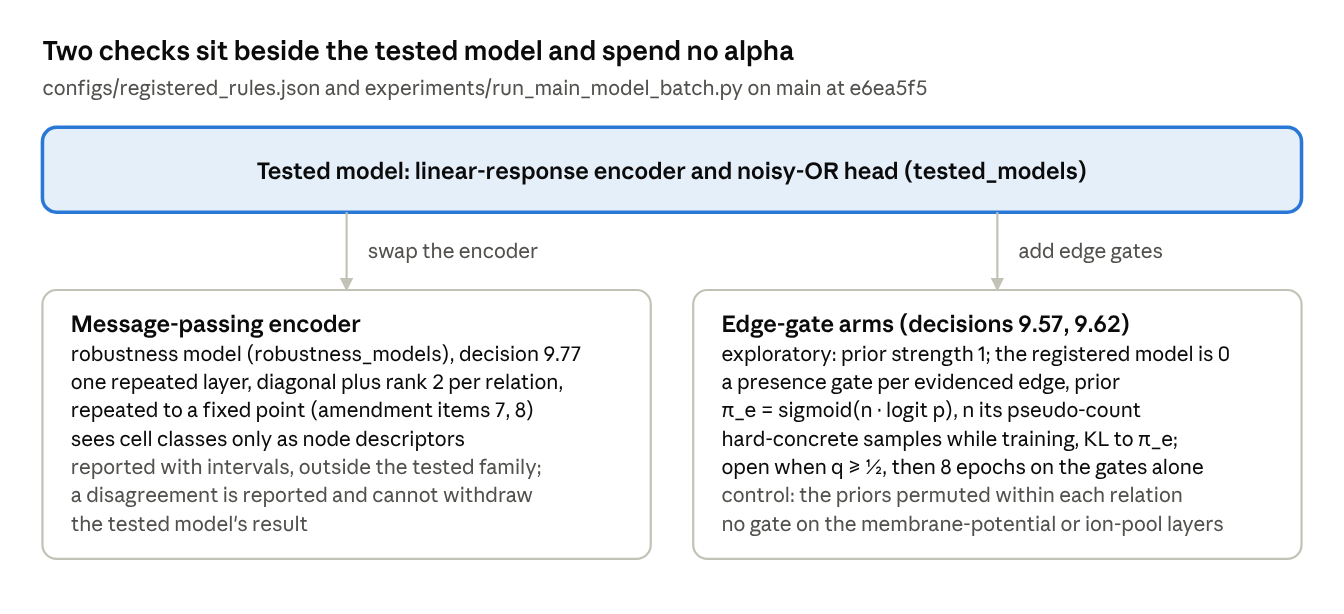
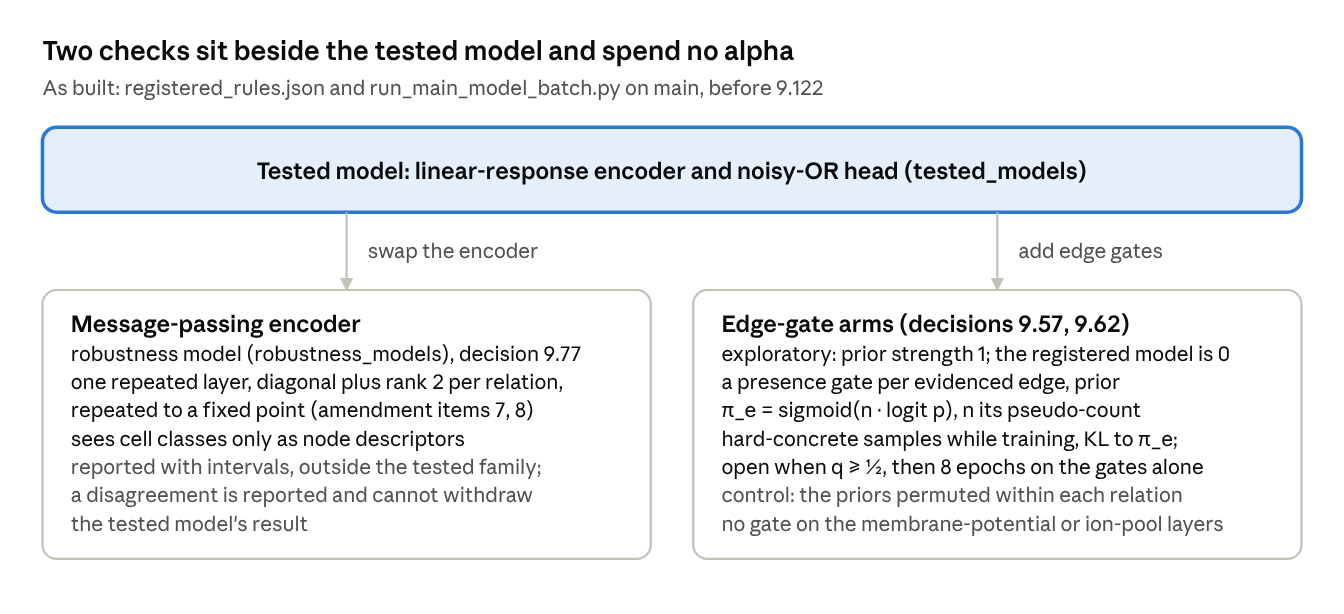
Decision 9.122: one categorical gate per contested pair, at most one claim, chosen for all classes
The owner, 8 November 2026, proposed that contradicting sources become separate edges in
sets of which only one may stay, so the description length chooses between them, and
ruled on the form put to them: claims that agree collapse into one state whose prior
they strengthen; absent is always a state ("at most"); the choice is made once for all
cell classes, a numerical compromise recorded with its justification, on the condition of
a pass over the existing curations for per-class context (a Fable pass started today).
The four guards were accepted with it. Not built.

The robustness and exploratory arms diagram (e45d7aa9-175e) gets an as-decided partner
(a2c305c9-428b); both are stamped and the Markdown copy carries both images.

Claude-Session: https://claude.ai/code/session_01RNHwqTkjjENH7yo98idnBU

Changed region(s): [[0.0312, 0.1238, 0.6875, 0.1547]]

diff --git a/docs/open_decisions.md b/docs/open_decisions.md
@@ -239,6 +239,7 @@ Decision 4.3 is deliberately not here: the owner asked for it to be quantified a
 | 9.119 | **The module supports are reparameterised before the first confirmatory run, with attention as a robustness arm; which parameterisation the tested model takes is open (the owner, 7 November 2026, answering the seven questions of `docs/module_support_reduction_2026-11-07.md`).** **Why it came up.** The owner asked for "a fable research pass for how to reduce the count of the module supports symptom parameters by a few orders of magnitude". The pass (Fable, record above) recounted the supports from the code on v5: 8 x 49,834 = 398,672 of 405,908 learned parameters (98.2 per cent), about 90 gates per positive label (4,446 positives, 9.90), and 7,445 nodes outside every perturbation's forward cone, whose gates no data can move (**not reproduced:** a second Fable pass the same day, on supports grown from seeds, found 39,483 nodes reached from 2,399 seed nodes of 2,455 perturbations and 10,351 unreached under the training loader's settings, grades A and B with the currency rule, and could not reproduce 42,389 and 7,445 under any setting; both counts stand as measured until the difference is traced). It recommended supports over named pathway sets (option (a)) with a per-node residual on the curated anchors' neighbourhood, and attention as a robustness arm; the owner added the attention option, under the constraint "It has to stay interpretable for the future nosology aim". **The rulings and answers, each on its own question.** (1) Amend the tested model or add an arm: "Before confirmatory run but Attention is a robustness arm". So the support parameterisation of the tested model changes before the first confirmatory run, as an amendment (an `Amends:` trailer, a new registered rule naming the support space, a dated amendment of preregistration 5.3), outcome-blind while the v5 lockbox is undrawn; attention runs beside it under `robustness_models`, read with intervals and no alpha. Which parameterisation the tested model takes waits on (2). (2) Which sets define the support space: **open.** The owner: "I feel like the model should be able to determine that, otherwise we're forcing our notions onto the final ontology. Right? But this creates more pressure on the already sparse training data, right?" The session's answer (Opus, 7 November 2026, from the record's counts): yes to both, with a qualification. Fixed sets fix the smallest unit a module can contain, not the modules: which sets a module takes, and so the dimensions of the nosology, are still learned. The sets are physiology's units (Human-GEM subsystems, Reactome pathways), not symptom categories, which is where 9.63's circularity concern bites hardest. And the fully data-determined version is the present per-node gate, whose 398,672 parameters are what the data cannot identify. Proposed for the owner, not ruled: offer several set libraries and granularities (subsystems, Reactome at more than one hierarchy level, GO biological-process terms at more than one depth) and both kinds of membership (catalysis, and substrate or product) as candidate sets, and let the gates and the description length choose among them, which lets the data choose the granularity for a few thousand parameters rather than a few hundred thousand. **Added later the same day, the owner on (2):** "For the fixed sets option, losing something that cuts across pathways is the main issue: it's almost unavoidable to enough of an extent on this graph without making modules out of each know pathway but that limits the ability to find new pathways". The session's reply (Opus, not ruled): fixed sets still allow a module that combines whole pathways, so what they lose is a module that takes part of one; the forms that keep that while charging for it are sets as a prior rather than a constraint (a per-node departure from set membership, paid for in the description length, the form of expiMap's refinement), and supports grown on the graph from a few learned seed nodes, which follow connectivity rather than curation; both are for a Fable pass to read and count before the owner rules. **The owner's direction, later the same day (not yet a ruling on the form):** "I plan towards option 2 with the per node seeds merging but it has to be allowed to overlap (a nice can belong to multiple modules) otherwise the cross module interperetability causes issues" ("nice" read as "node"), and, on a module-size term in the description length, "I just meant that decreasing the size of each module would improve interpretability". So overlapping membership is a requirement of whatever form is chosen, smaller modules are wanted for interpretability, and a Fable pass on supports grown from merging per-node seeds was started the same day. On how the seed gates start, offered all candidates equal, a start from the curated anchors, or a start from how often a node lies in the forward cones of the training perturbations (training folds only, blind to the lockbox), the owner: "And the third option sounds best for gate stay" ("stay" read as "start"), a preference recorded for the pass, not a ruling. **On the graph-grown supports pass's v5 measurements, the owner:** "The current graph is incomplete". So its connectivity counts (12 of the 16 curated modules connected within three steps, the four that are not, 10,351 unreached nodes) are read as properties of v5, not as constraints on the design: a missing edge can make a real module look disconnected, and the counts are to be measured again on the graph the confirmatory run uses. **A path requirement, proposed later the same day (not ruled).** The owner asked about "the requirement that each module cover at least from an input node up to one of those left out node types as an uninterrupted path", then, on which end types: "It would have to be a conjunction of a limited set of metabolites and the membrane potential but I think even that isn't enough stopping options". The session (Opus) agreed that an enumerated end set misses real effects (peptide hormones and cytokines are protein nodes, a transcriptional change ends at a gene or transcription factor, receptor amount is 9.118's gap, the chloride gradient is a concentration) and proposed an end defined by the data: a module is checked for an unbroken directed path, through its own members, from an input node to the members that carry most of its contribution (a member's share of the module's activation, its membership times its field value, weighted by the module's links to the symptoms; `NoisyOrOutput.module_contribution` gives the module-level product, activation times link, and the per-node split is not computed today). **Recorded at the owner's request ("Yes record it please") as a proposal:** first a check reported for every fitted module beside stability selection, with the share of the shortest input-to-signal path that lies inside the module, so that a gap in the graph shows as a near miss rather than a rejection; a soft reachability cost in the description length only if the check shows it matters; not a gate, given the incomplete graph. It needs a fitted model, so it waits on the first v5 training runs. **Ruled 7 November 2026, (2) and with it (6): option 2** (the owner: "formal ruling towards option 2 is given"). The tested model's supports are grown on the graph from per-node seed gates that merge into modules, a node may belong to several modules, and pooling stays per module, so overlap is kept; the design questions of `docs/graph_grown_module_supports_2026-11-07.md` (relations, kernel, candidate seeds, hub insulation, description-length unit, merging, the gate start) are open, and its counts wait on the finished graph. The owner also asked whether the attention arm is worth keeping ("My goal requires more interpretability than that"), why the uniform-weights control is needed ("Why bother with uniform weights? What does it control?"), and proposed seeding "by looking at nodes with the least overlap of the forward cones"; the session's answers (Opus, not ruled): replace the attention arm with option 1 (sets as a prior) as the robustness arm, or drop the arm; keep a control for the module structure, in the form of seeds placed at random nodes matched in number, degree and spread rather than uniform weights; and seed by relevance against redundancy (cone membership that separates the training perturbations of a symptom, minus overlap with seeds already chosen), or by a non-negative factorisation of the perturbation-by-node reach matrix, both on training folds only. **Ruled later on 7 November 2026, three of those** (the owner: "Drop the robustness arm. Option one would be nice but might not be enough time to double train", "Use random seeds control then", "Definitely label free factorization"): (1) is amended, so no robustness arm runs beside the tested head, attention and option 1 alike; (7) is ruled in the form of a random-seed control, the same number of seeds and spreads placed at random nodes matched in degree, one run per seed, so that the fitted seeds are tested against seeds that carry no information; and the seed gates start from a non-negative factorisation of the perturbation-by-node reach matrix (cones bounded in steps, training folds only), each factor's top nodes the starting seeds, with no labels used, which replaces the owner's earlier preference for a start from cone frequency. (3) A per-node residual: "I don't know yet. Defer". (4) The description-length unit under sets: "Defer". (5) Attention: "Yes. Determined by the data. Even if it's just a simple hyperparameter search". So its descriptors are named physiological annotations (set memberships, cell-class and regional expression, compartment, node type, the protein embedding columns left out), and its key dimension and temperature are chosen by a search. A condition stated with it: the search runs on development folds only, and its space and selection criterion are written down before the confirmatory run. (6) Pooling under a normalised membership: the owner did not follow the question ("I don't understand"); explained the same day, still open. (7) The uniform-weights control (option (e), modules reading the field with no learned support): the owner asked "What does that control against?"; answered the same day, still open. **Bearing on other decisions.** 9.118 (readings per propagation round, which the support parameterisation must accommodate); 9.64 (the modules as the nosology's dimensions); 9.90(h) (description-length units). The study sheet's diagrams of the head (012dc8f5-8ee9, "How the modules ...", and 15448121-6479, the parameter count) get their as-decided versions once (2) is ruled; until then the as-built diagram is the only one that can be drawn. | open: option 2's design questions; (3) and (4) deferred by the owner; (1) without a robustness arm, so (5) is moot, (2) as option 2, (6), (7) as a random-seed control and the factorisation start ruled |
 | 9.120 | **The qualifying exam's worked disorder is GCH1, with HMBS as the backup (the owner, 8 November 2026: "Accepted").** **Why it came up.** The owner asked on 7 November 2026 for the project to be framed around a real-world problem for the qualifying exam in the second week of January 2027 (`docs/exam_real_world_problems_2026-11-07.md`). That record ranks the dopamine axis in both directions first and the explanation of one disorder second, and leaves three questions to the owner: Q1, whether development readings may be made before the confirmatory draw; Q2, which disorder is the worked case; Q3, whether to add a prolactin construct. **Q2, ruled.** The worked case is GCH1 (dopa-responsive dystonia; 10 grade-A constructs on v5, among them parkinsonism, depressed mood and anxiety), whose route from tetrahydrobiopterin through tyrosine hydroxylase to dopamine lies in Human-GEM and is the headline's own pathway, with levodopa's relief of what GCH1 loss causes as a second test; HMBS (acute intermittent porphyria; 8 grade-A constructs) is the backup, for breadth outside dopamine and in case GCH1 falls in the lockbox, since a worked case must be held out in a development run and so cannot be a lockbox perturbation. **Q1, replaced.** Asked how readings could precede the draw, the session (Opus) answered that they cannot cleanly: a reading before the draw sees perturbations that may land in the lockbox. The owner pointed out that the draw itself waits on development because its leakage check depends on forward-cone overlap; that question is recorded in 9.36, where the owner chose to wait. **Q3, open:** whether to add a prolactin construct as a readout of D2 antagonism; prolactin is outside the symptom scope, so it needs a construct addition, a crosswalk row and an amendment. | ruled: Q2 (GCH1, HMBS the backup); open: Q3; Q1 is 9.36's draw-timing question |
 | 9.121 | **The sweep for drugs lost or misfiled like those of 9.117 (a Fable pass of 8 November 2026, on the dry run of 9.117's wiring; the owner: "please start the thorough pass for similar cases" and "make sure to get multiple sources for the manual curation where possible").** Of the drugs holding labels on the fine constructs, 943 of 1,139 SIDER drugs and 1,037 of 1,221 OnSIDES ingredients do not qualify; nearly all are rightly out under the registered rules (an ATC code outside group N for a drug no rule-14 reading admits, or no mechanism target in any source). **(a) Mechanical losses of drugs the registered rules admit, 24 cases, 181 SIDER events and 110 OnSIDES statements, 5 new perturbations, each value with two sources where they exist:** (A1) 13 SIDER drugs with no code in `drug_atc.tsv` while the WHO ATC index and RxNav give a group-N code, mostly approvals of 2010 to 2014 (lurasidone 26 events, iloperidone 26, lisdexamfetamine 19, vilazodone 18, oxymorphone 16, nalmefene 15, retigabine 15, perampanel 15, clorazepate 10, vortioxetine 8, suvorexant 5, fampridine 4, tasimelteon 2): rows of `configs/atc_code_supplements.csv`; 11 of them are already perturbations through OnSIDES, so **the fix moves pairs from the later-slice test candidates into the 2015 training slice**, which changes the time split. (A2) 91 OnSIDES statements whose bridge parent is a stereo-specific ChEMBL record with no mechanism row while the SIDER identifier's parent has one: methylphenidate 32, valproate 17, milnacipran 14, tranylcypromine 14 and tramadol 14; the fix is a fallback in `qualify_ingredient` to the SIDER identifier's parents, the mirror of the fallback the SIDER route already has. (A3) safinamide, N04BD03, 4 statements, a new perturbation. (A4) methotrimeprazine is levomepromazine (RxNav, ChEMBL synonyms, WHO, Health Canada): unify with SIDER CID100003916, needing a parent override the wiring does not have. (A5) **flupentixol is in OnSIDES as "flupenthixol" (RXCUI 4495, 7 UK statements), which corrects 9.117 (ii)**; its curated rows sit under an identifier no source carries and are re-keyed. **(c) For the owner:** (C1) salt, ester or ion forms SIDER files under a second identifier (eslicarbazepine acetate 18, fluphenazine decanoate 12, lithium cation 11, propoxyphene napsylate 7): merge into one perturbation, as lithium citrate was, or leave two; (C2) levodopa's combination labels with carbidopa or benserazide (56 OnSIDES statements, 32 SIDER events): attribute them to levodopa, the partner acting outside the brain, or keep the combination-only rule; (C3) eleven group-N drugs no source gives a mechanism row for (lormetazepam 26, nitrazepam 23, phenobarbital 20, stiripentol 16, lisuride 15 with the sources disagreeing, periciazine 11, amobarbital 9, solriamfetol 8, pizotifen 7, nefopam 6, budipine 3): accept a label-stated or single-source target, or leave them out; (C4) the reverse case, drugs admitted on group N that act outside the brain: neostigmine and pyridostigmine (quaternary amines), aspirin and diflunisal (N02BA), nine local anaesthetics of N01B; (C5) levobupivacaine merged into bupivacaine, 1 statement. **Defects found in 9.117's wiring:** the curated-target fallback never reached an ingredient without a ChEMBL parent (fixed the same day, with a test); the two routes are asymmetric (A2); and the DrugCentral 2021_09_01 release is no longer on this disk, the provider now serving a later one (CC BY-SA 4.0, re-read). The splits, the merge, the lithium supplement and the rule-14 list checked clean. Report and table: that session's scratchpad, `similar_drug_cases.md` and `.csv`. Related to 9.117 and decided apart. | the owner's: whether to apply (a) A1 to A5, and (c) C1 to C5 one by one |
+| 9.122 | **Contradicting sources become a choice the fit makes: one categorical gate per contested pair, at most one asserted claim open, chosen once for all cell classes (the owner, 8 November 2026).** Their proposal: "What do you think about providing a separate edge per source and forcing them into sets that only allow one edge from each set to leave the node? That would force the MDL to choose between sources for contradicting evidence", then "to be clear, I mean that every individual claim as an edge". **What was put to them.** It extends the hard gates of 9.62 (e), which already charge log((1 - pi)/pi) nats per open edge, from whether an edge is there to which of several competing claims is there, and naming one of k states costs minus the log of its prior, so the choice is a code length. Claims that agree are interchangeable in the model's output (same endpoints, sign and relation), so the labels can never prefer one over another; as separate edges they add parameters and an arbitrary pick, so they are collapsed into one state whose prior they strengthen. Which claims win across many contested pairs is evidence about each source's reliability, the logic of Dawid and Skene (1979) that the label side already uses. **Ruled** ("Accepted. Even the numerical compromise in 4 but that means another pass over existing curations to look for per-class cell type context. 1 collapsed form is what I meant 2 at most 3 see above"): (1) **the collapsed form**: a contested (source node, target node, relation) takes one categorical gate whose states are absent plus each distinct thing the sources assert (a sign, or a different relation); each state's prior comes from the tiered, deduplicated claim counts behind it, as 9.57 builds edge priors; every claim stays recorded in the edge evidence and is reported chosen or rejected after the fit; separate claim edges only where claims assert different things; (2) **at most one**: absent is always a state, since contradicting sources can both be wrong; (3) **one choice for all cell classes, a numerical compromise recorded with its justification** as CLAUDE.md "Modelling" requires: a choice per class is the physiological version, and it is not used because 17 classes would multiply the contested parameters by 17 against labels already too sparse to move most single choices; per-class context is carried on the edge wherever a source states it, and the owner's condition is a pass over the existing curations for such context (a Fable pass started the same day). **Accepted with it, the four guards:** a contested set is first read for a context that resolves it (isoform, cell class, concentration), and a resolved one is split rather than forced, 9.97's G beta gamma and the cyclase isoforms being the worked case; the report separates the choices the data moved from those the prior made, against a permuted-prior control; the choice is fitted on training folds only and is a result to check, never written back into the graph; and the gate is an exploratory arm like 9.57's, the registered model unchanged. **Scale, from the code's own record and not measured anew** (the owner ruled no graph measurement until signalling is finished): `graph/sign_evidence.py` counts 3,795 regulation edges of the v5 graph whose two CollecTRI releases state opposite signs, stored as OmniPath's consensus and flagged `sign_disputed` (9.72); conflicts between other sources are not counted. Related to 9.57, 9.62 and 9.72 and decided apart. | ruled 8 Nov; open: the build, the context reading of the contested sets, the curation pass for per-class context (running), how the winning claims enter source reliability |
 
 ## 10. Before the rebuild, in order
 

diff --git a/docs/study_sheet.md b/docs/study_sheet.md
@@ -1,6 +1,6 @@
 # Perturbation-symptom modules: study sheet
 
-The owner's study sheet, exported from Claude Docs (https://claude.ai/artifact/RzVm4LjdeHmzzdSyzJ5j65). The doc is the version that is kept current; this file is its Markdown copy, refreshed in place by exporting it again (last from revision 47, 8 November 2026). The text is the doc's own Markdown export; the 21 diagrams, which that export leaves out, are rendered as PNG images in [`study_sheet_figures/`](study_sheet_figures/), each followed by its caption. From 27 October to 7 November 2026 the copy was a dated record, an export of revision 36 with an HTML page and 12 figures, filed under the date of that export; the owner asked on 7 November 2026 that the date be removed from the file names, and git holds that version.
+The owner's study sheet, exported from Claude Docs (https://claude.ai/artifact/RzVm4LjdeHmzzdSyzJ5j65). The doc is the version that is kept current; this file is its Markdown copy, refreshed in place by exporting it again (last from revision 49, 8 November 2026). The text is the doc's own Markdown export; the 22 diagrams, which that export leaves out, are rendered as PNG images in [`study_sheet_figures/`](study_sheet_figures/), each followed by its caption. From 27 October to 7 November 2026 the copy was a dated record, an export of revision 36 with an HTML page and 12 figures, filed under the date of that export; the owner asked on 7 November 2026 that the date be removed from the file names, and git holds that version.
 
 Oct 25, 2026 · @Bryan Nova
 
@@ -69,9 +69,13 @@ Two things in the code are worth knowing for the nonlinearity question. The bott
 
 ### Robustness and exploratory arms
 
-![robustness and exploratory arms · registered_rules.json, run_main_model_batch.py, models/edge_gates.py on main at e6ea5f5; built and decided agree](study_sheet_figures/07_robustness_arms.png)
+![robustness and exploratory arms, as built · registered_rules.json, run_main_model_batch.py, models/edge_gates.py on main; before decision 9.122](study_sheet_figures/07_robustness_arms.png)
 
-*robustness and exploratory arms · registered_rules.json, run_main_model_batch.py, models/edge_gates.py on main at e6ea5f5; built and decided agree*
+*robustness and exploratory arms, as built · registered_rules.json, run_main_model_batch.py, models/edge_gates.py on main; before decision 9.122*
+
+![robustness and exploratory arms, as decided · decision 9.122 ruled 8 Nov 2026, not built: one categorical gate per contested pair](study_sheet_figures/07b_robustness_arms_as_decided.png)
+
+*robustness and exploratory arms, as decided · decision 9.122 ruled 8 Nov 2026, not built: one categorical gate per contested pair*
 
 Neither arm can change the confirmatory verdict: the message-passing reading is reported beside it, and the edge-gate arms are not part of the registered model.
 
